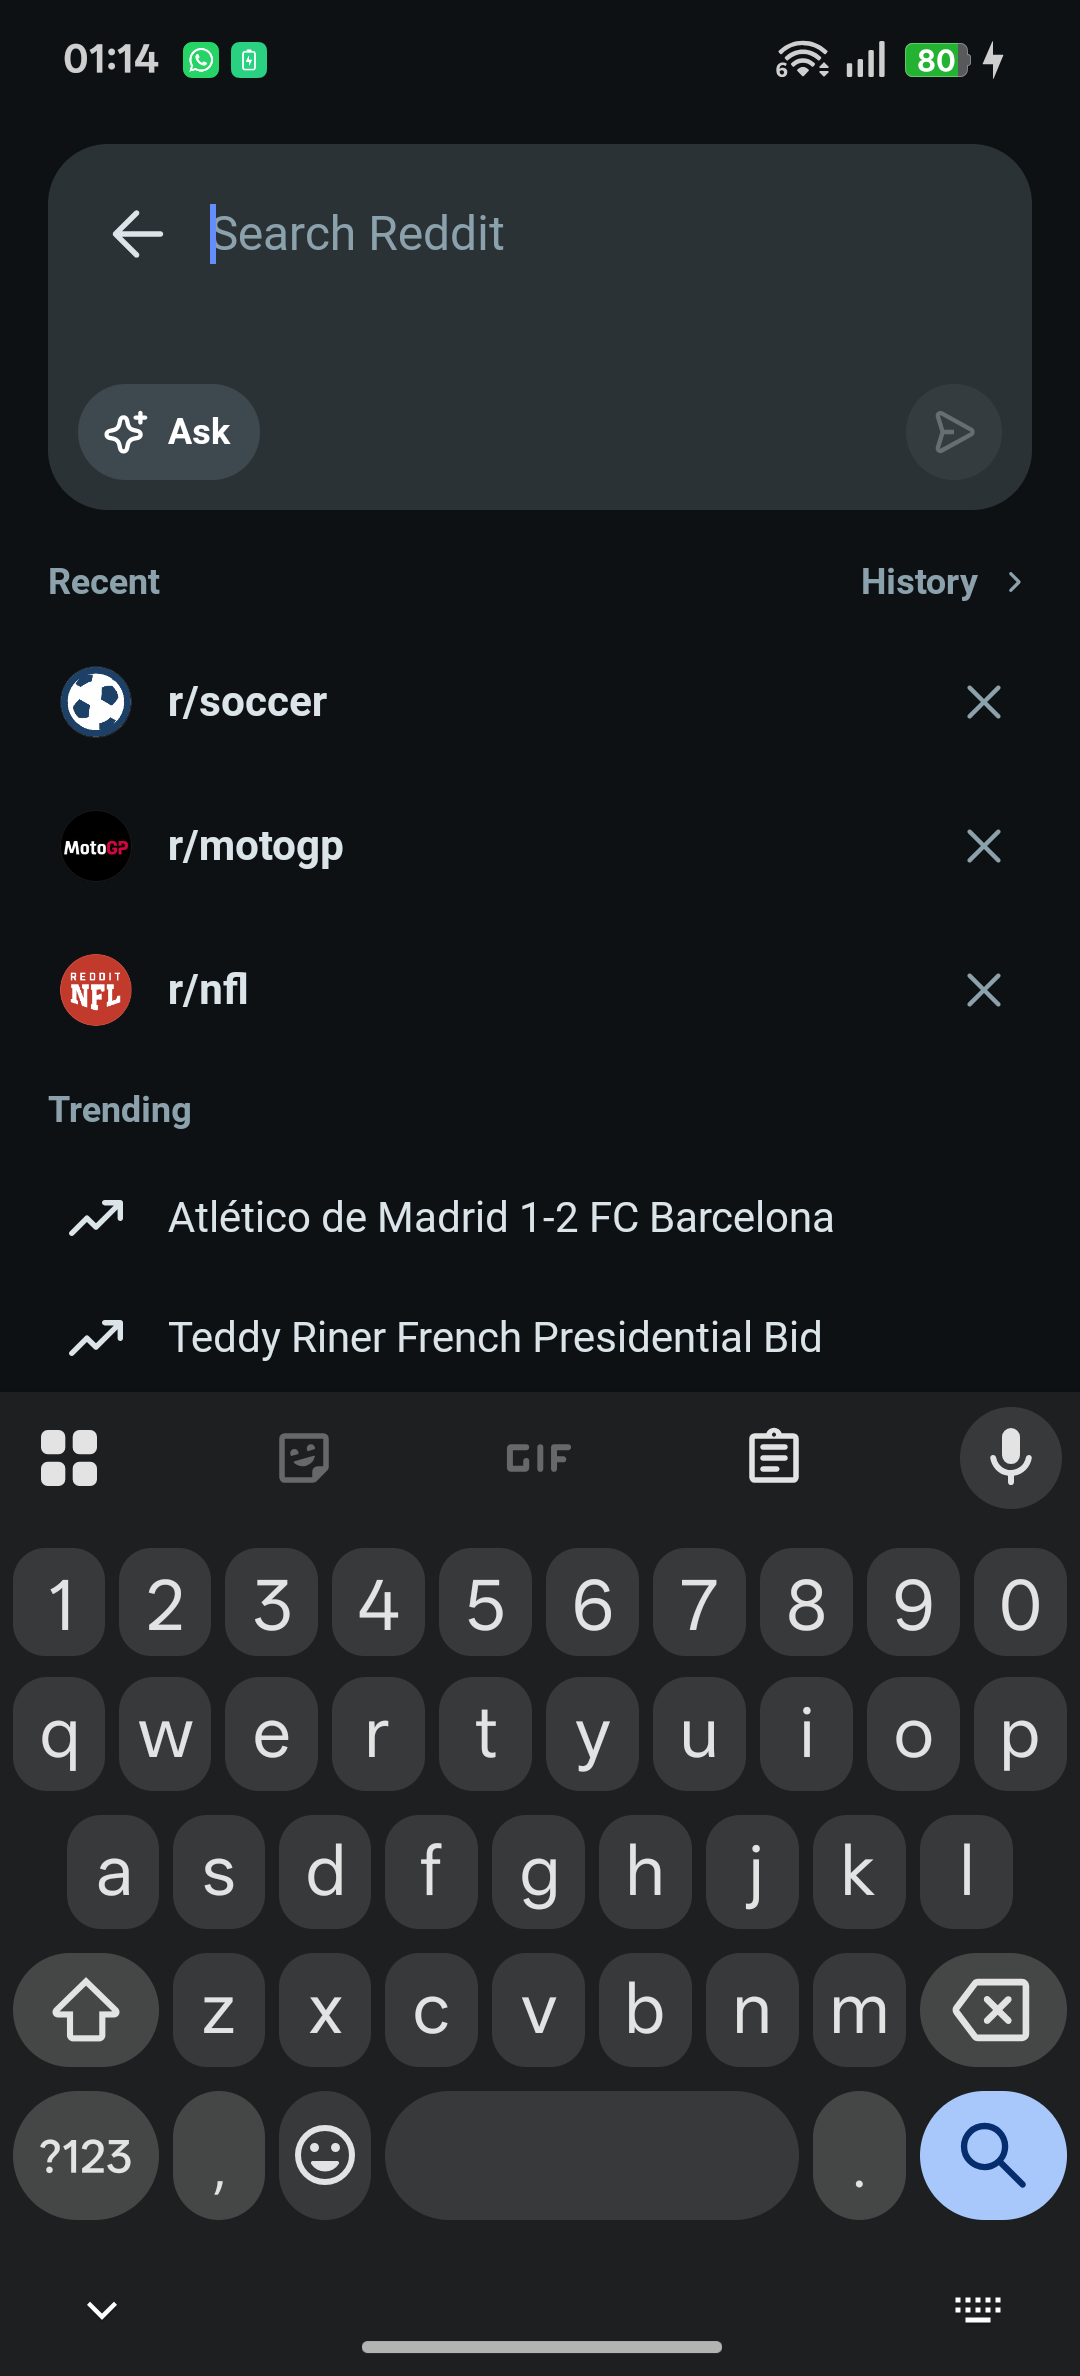
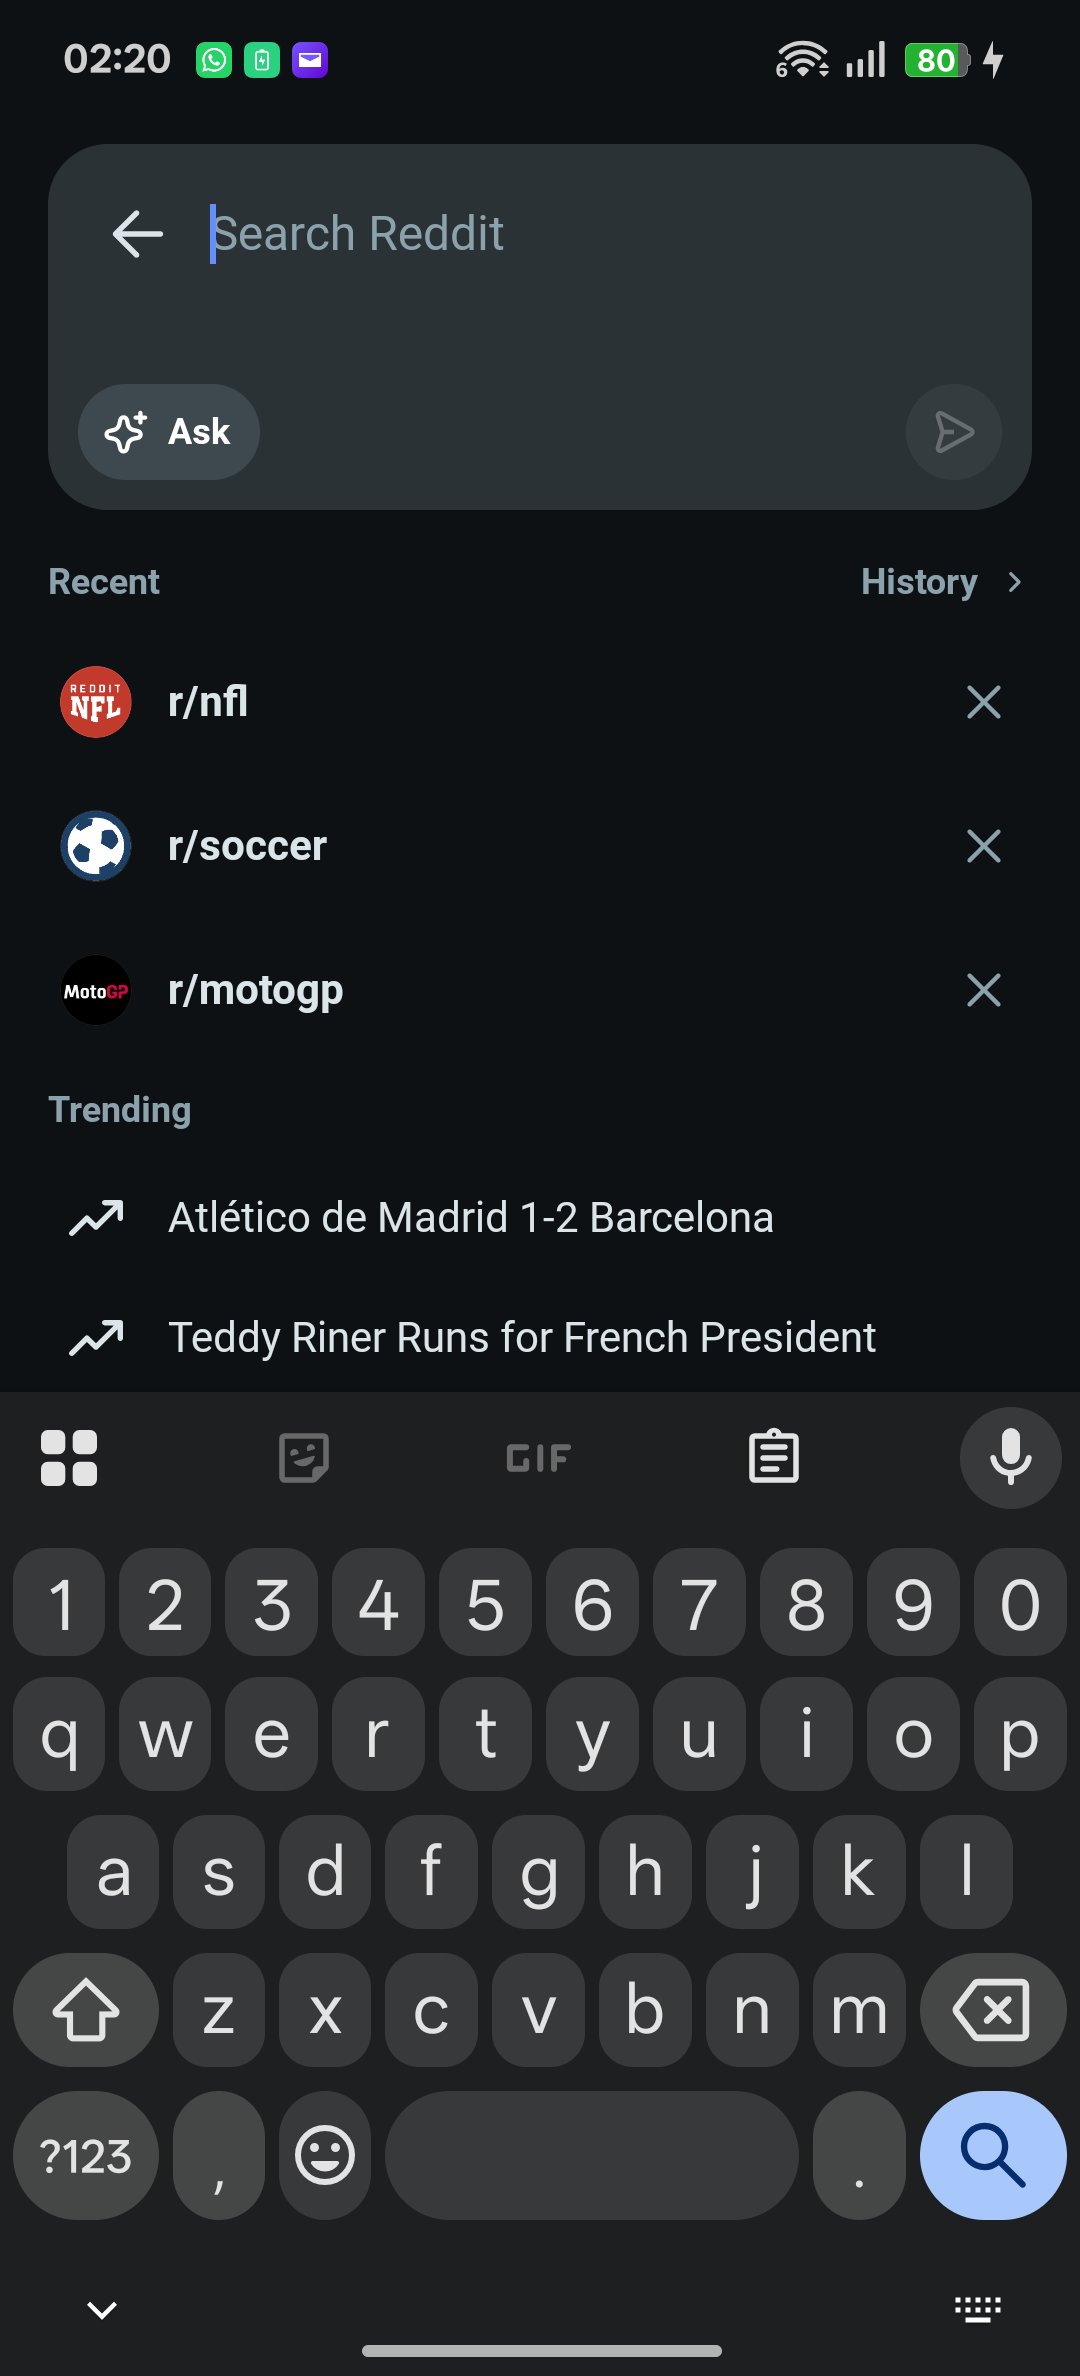
test(Reddit): S3 harness fixes land - V7 and V14 green on device, V20 accepted as shipped (owner, option a)

diff --git a/docs/build-plan.md b/docs/build-plan.md
@@ -50,7 +50,7 @@ Rows marked (v2) are the v2 note's redefinitions; all other rows are v1's, still
 | V17 (v3) setting OFF renders Home/Discover/Popular normally | S02 device test |
 | V18 (v3) every Home tap opens search, bare blank Home never after a tap flow; Communities top bar and its Morphe menu stay reachable | S01 device |
 | V19 (v3) Hide Inbox button toggle drives Inbox + UnifiedInbox | S03 device run |
-| V20 (v3) search zero state has no Trending sections; recent searches stay | S03 device run (before-and-after dump) |
+| V20 (v3) search zero state has no Trending sections; recent searches stay | S03 device run (before-and-after dump) — the ONE attempt FAILED on device; owner accepted as shipped, 2026-11-10 (option a); row stays red with the reason |
 
 **The device gate.** S01 onward need a phone. Each device step starts by polling
 `adb devices` (Android SDK at `../android-sdk`, `platform-tools/adb`); when it is empty the
@@ -213,6 +213,13 @@ implementer as the next session's first prompt.
 
 ## Changes
 
+- 2026-11-10 - The owner called V20: **option (a), accept as shipped.** The zero-state
+  filter's ONE permitted device attempt failed (the pre-typing search page still renders
+  Trending / Trending Communities / the trending shelf; `evidence/S03.log` check [20] and
+  `evidence/S03-search-zero-state-after.png`). The hook site is the repository's terminal
+  publisher, verified matched, injected and read-back verified, so the row stays red with
+  this decision recorded - no second site, no re-attempt, nothing loosened. V20 is the
+  only red row going into the final gate's covered/deferred table.
 - 2026-11-10 - S2 is green on the phone (S02, 13/13): the OFF setting is stock (the switch
   is driven through Morphe settings and verified on the switch itself; the stock feed is
   judged by the screen's pixel diversity because this build's guest screens carry no vote/
